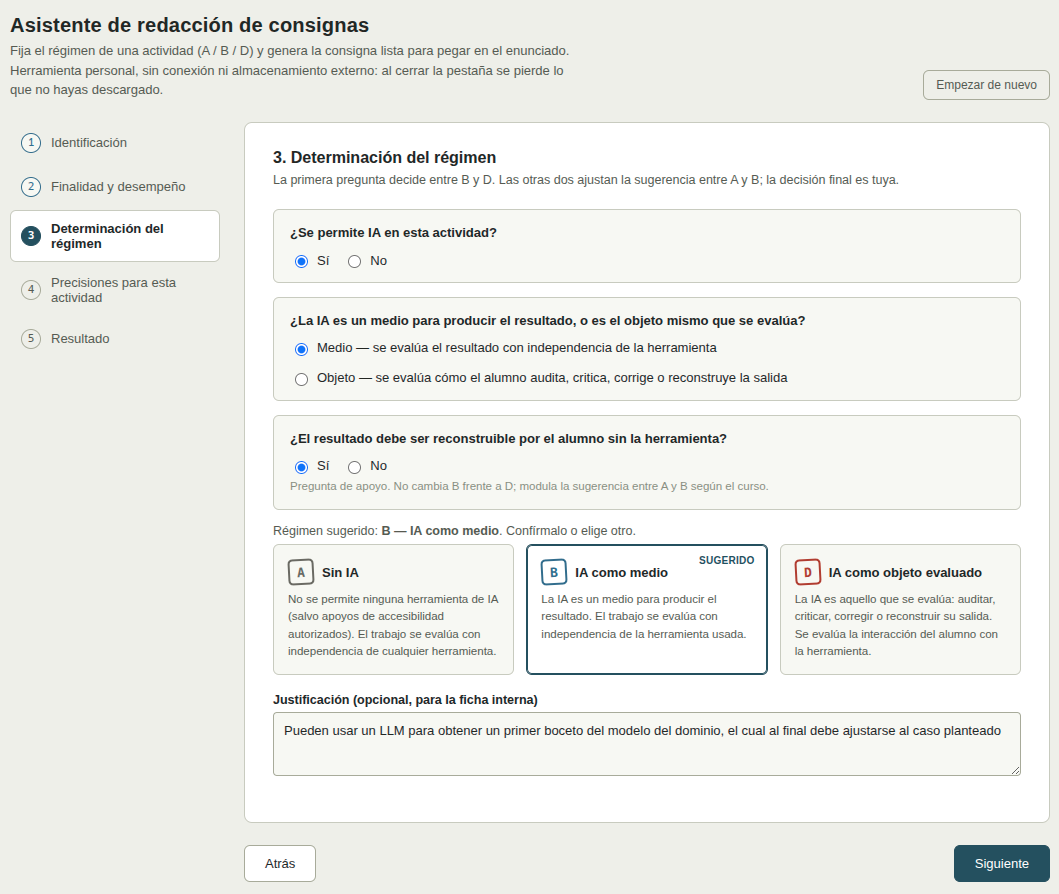
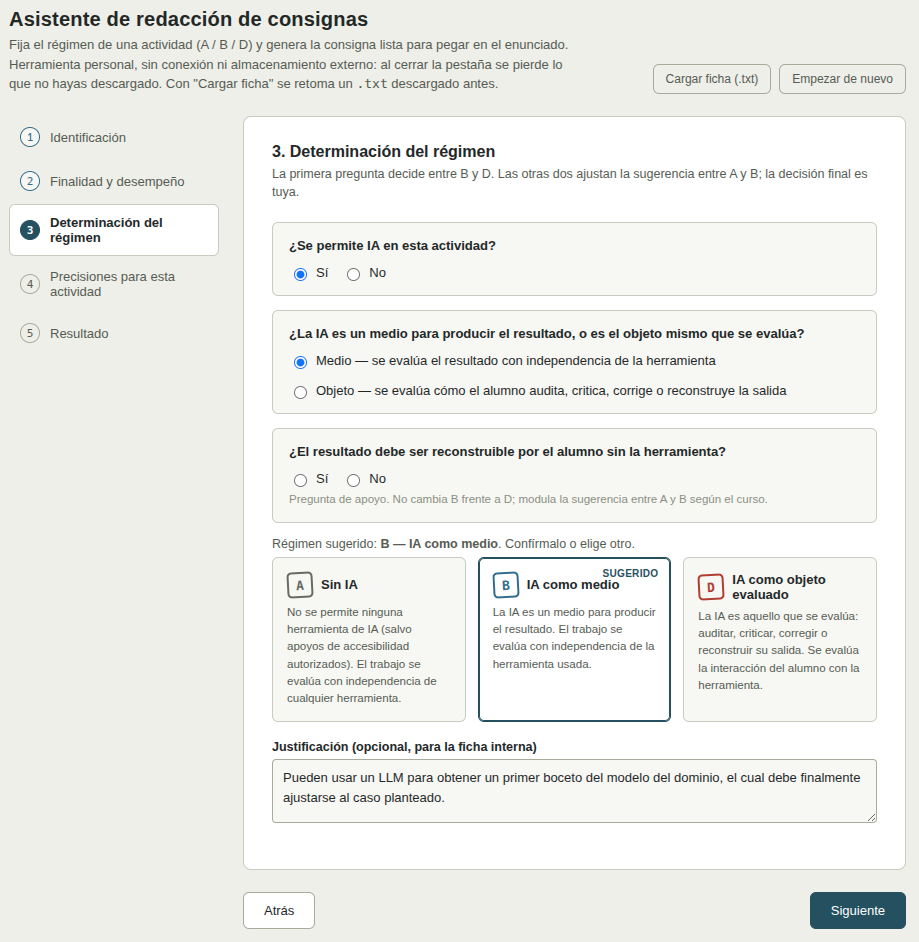
docs(tools): stub del Asistente de declaración (alumnado)
- tools/asistente-declaracion-alumno.md: recorrido de 4 pasos con
  capturas y descripciones, qué genera cada declaración, ejemplo
  completo (régimen B individual).
- Incluye el cambio de título del stub del profesor (PROFESOR - ...) y
  las capturas del asistente de consignas recapturadas por Manuel.
- Retirado el stub mal nombrado asistente-consignas-alumno.md (la
  herramienta es de declaraciones, no de consignas).

diff --git a/tools/asistente-declaracion-alumno.md b/tools/asistente-declaracion-alumno.md
@@ -1,0 +1,71 @@
+# ALUMNO - Asistente de declaración de autoría y uso de IA
+
+Herramienta para que el alumnado redacte la declaración de autoría y, si el régimen lo exige, la declaración de uso de IA de una entrega.
+
+**[Abrir el asistente](https://mmasias.github.io/pyAI-edu/tools/asistente-declaracion-alumno.html)** — se abre en el navegador, no necesita instalar nada y funciona sin conexión una vez cargado. Nada de lo que escribas se guarda ni se envía a ningún sitio: al cerrar la pestaña se pierde lo que no hayas descargado.
+
+Lo habitual es llegar aquí desde el **enlace que el profesorado incluye en la consigna**: en ese caso, el régimen, la asignatura y la actividad ya vienen puestos. El régimen no se elige en el asistente; lo fija la consigna.
+
+## Cómo funciona, paso a paso
+
+<div align="center">
+
+![Paso 1: datos de la entrega](../images/asistenteAlumno-001.png)
+
+_**1. Datos de la entrega.** Asignatura, actividad, docente y modalidad (individual o grupal). El régimen se recoge tal como lo indica la consigna; si abriste el asistente desde el enlace de la consigna, ya viene marcado._
+
+![Paso 2: autoría](../images/asistenteAlumno-002.png)
+
+_**2. Autoría.** Nombre y apellidos. En modalidad grupal, cada integrante y su contribución. Esta declaración es obligatoria en todos los regímenes, también en A._
+
+![Paso 3: declaración de uso de IA](../images/asistenteAlumno-003.png)
+
+_**3. Uso de IA.** No aparece si el régimen es A. En B y D: si se usó IA y, por cada herramienta, cuál y con qué versión, para qué y en qué fase del trabajo. No hay que reconstruir la conversación ni pegar registros._
+
+![Paso 4: resultado](../images/asistenteAlumno-004.png)
+
+_**4. Resultado.** Se generan las declaraciones, editables, con una lista de comprobación antes de entregar. Descarga en Word o texto, o copia al portapapeles. Se adjunta a la entrega junto con el trabajo._
+
+</div>
+
+## Qué genera el asistente
+
+<div align="center">
+
+| Declaración de autoría | Declaración de uso de IA |
+|---|---|
+| Obligatoria en todos los regímenes. Afirma que el trabajo es de autoría efectiva del alumno o del grupo y que las fuentes están reconocidas y citadas. En régimen A añade que no se ha usado IA; en B y D, que el uso de IA no sustituye la autoría. | Solo en regímenes B y D. Deja constancia de qué herramientas de IA se usaron, para qué y en qué fase. No reconstruye la conversación: es una constancia mínima, no un registro exhaustivo. |
+
+</div>
+
+A continuación, un ejemplo completo (régimen B, entrega individual).
+
+### Declaración de autoría
+
+```
+Yo, [nombre y apellidos], declaro que la entrega "Requisitado" de la asignatura Ingeniería del Software I es producto de mi autoría efectiva: las decisiones, el análisis y la elaboración intelectual sustantivos son míos.
+
+El uso de inteligencia artificial realizado en esta entrega, declarado aparte en la declaración de uso de IA, no sustituye mi autoría efectiva: el resultado es defendible y modificable por mí, conforme al guion de defensa oral.
+
+Todas las fuentes, datos y contribuciones de terceros están reconocidos y citados conforme a las normas aplicables. Asumo la responsabilidad académica sobre la veracidad, integridad y trazabilidad del trabajo entregado.
+
+Fecha: 2026-09-03
+```
+
+### Declaración de uso de IA
+
+```
+Asignatura: Ingeniería del Software I
+Actividad / entrega: Requisitado
+Régimen asignado: B (IA como medio)
+Fecha de entrega: 2026-09-03
+
+He utilizado inteligencia artificial en esta entrega:
+Herramienta y versión: Gemini
+   Finalidad del uso: Generar diagramas de objetos
+   Fase del trabajo en que intervino: Inferencia a partir de clases del dominio
+
+Declaración de responsabilidad. Declaro que mi autoría efectiva no se ve sustituida por ningún uso de inteligencia artificial: el resultado entregado es defendible y modificable por mí, conforme al guion de defensa oral. Cualquier parte del trabajo que no pudiera explicar o modificar queda fuera del alcance de esta declaración; se resuelve en la conversación del guion de defensa oral, que distingue evaluación negativa (no aprendió) de fraude (defraudó) antes de concluir nada.
+
+[nombre y apellidos] — 2026-09-03
+```

diff --git a/tools/asistente-consignas-profesor.md b/tools/asistente-consignas-profesor.md
@@ -1,4 +1,4 @@
-# Asistente de redacción de consignas
+# PROFESOR - Asistente de redacción de consignas
 
 Herramienta para fijar el régimen de uso de IA de una actividad (A / B / D) y generar la consigna lista para pegar en el enunciado.
 
